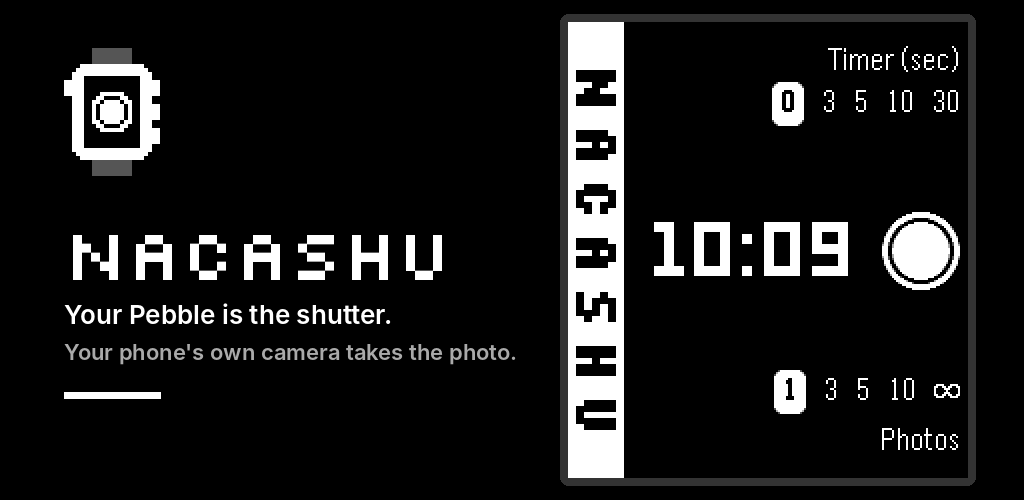
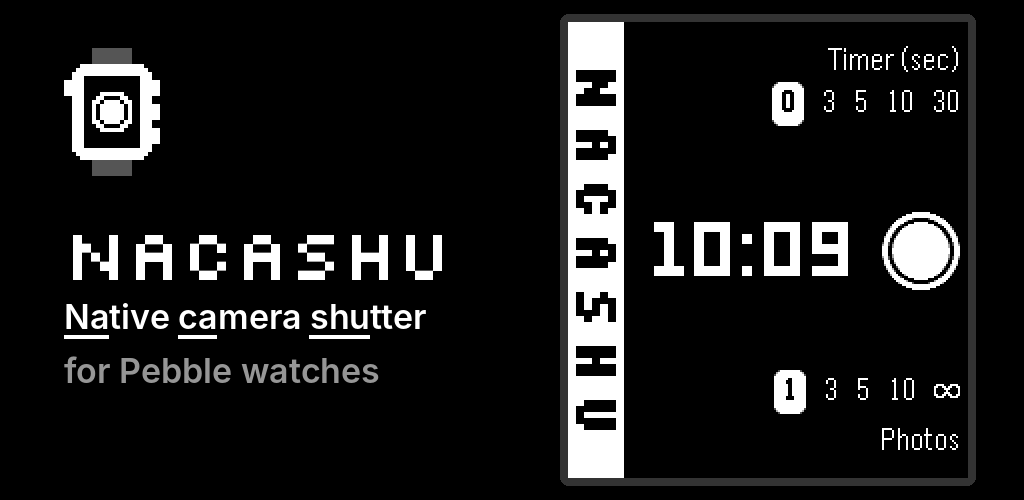
Feature graphic byline: Native camera shutter for Pebble watches
The letters the name comes from (Na, ca, shu) are underlined.

Claude-Session: https://claude.ai/code/session_016qf2GgT2tLT2mnJt2QRVqN

Changed region(s): [[0.0625, 0.6, 0.5, 0.81]]

diff --git a/watch/tools/make_store_images.py b/watch/tools/make_store_images.py
@@ -102,9 +102,17 @@ def feature_graphic(path):
     icon = Image.open(DOCS / "icon.png").convert("RGB").resize((128, 128), Image.NEAREST)
     img.paste(icon, (48, 48))
     d.text((64, 205), "NACASHU", font=font(pixel_font, 72), fill=WHITE)
-    d.text((64, 298), "Your Pebble is the shutter.", font=font(sans_font, 26), fill=WHITE)
-    d.text((64, 338), "Your phone's own camera takes the photo.", font=font(sans_font, 22), fill=(170, 170, 170))
-    d.rectangle((64, 392, 160, 398), fill=WHITE)
+    # "Native camera shutter", with the letters the name comes from underlined.
+    f = font(sans_font, 34)
+    x, y = 64, 296
+    line_y = y + f.getmetrics()[0] + 6
+    for text, underline in [("Na", 1), ("tive ", 0), ("ca", 1), ("mera ", 0), ("shu", 1), ("tter", 0)]:
+        width = d.textlength(text, font=f)
+        d.text((x, y), text, font=f, fill=WHITE)
+        if underline:
+            d.rectangle((x, line_y, x + width - 1, line_y + 3), fill=WHITE)
+        x += width
+    d.text((64, 350), "for Pebble watches", font=f, fill=(150, 150, 150))
     w = watch(screen("emery-1-ready", 2), 2, pad=8)
     img.paste(w, (W - w.width - 48, (H - w.height) // 2), w)
     img.save(path, optimize=True)
